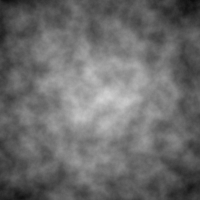
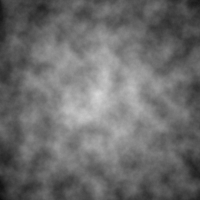
added a cursor, probably won't stay.

diff --git a/Input.py b/Input.py
@@ -24,6 +24,7 @@ class Input():
 		self.mouse = pygame.mouse.get_pressed()
 		self.mousePos = pygame.mouse.get_pos()
 		self.mouseMotion = pygame.mouse.get_rel() 
+		self.mouseWorldPos = ( math.floor((self.mousePos[0] - self.camera.positionX)/tileWidth) , math.floor((self.mousePos[1] - self.camera.positionY)/tileHeight) )
 
 		if self.keys[pygame.K_g]:
 			self.world.spawnGuy()
@@ -34,8 +35,7 @@ class Input():
 
 			elif event.type == pygame.MOUSEBUTTONDOWN:
 				if event.button == 1:
-					tgtPos = ( math.floor((self.mousePos[0] - self.camera.positionX)/tileWidth) , math.floor((self.mousePos[1] - self.camera.positionY)/tileHeight) )
-					self.world.addCharacter(assets['guy'], tgtPos, CharacterStats(10))
+					self.world.addCharacter(assets['guy'], self.mouseWorldPos, CharacterStats(10))
 				if event.button == 2:  # 2 is Middle Click
 					self.isDragging = True
 			elif event.type == pygame.MOUSEBUTTONUP:

diff --git a/Renderer.py b/Renderer.py
@@ -5,19 +5,23 @@ import math
 from World import World
 from Camera import Camera
 from Character import Character
+from Input import Input
 
 class Renderer():
 
-	def __init__(self):
+	def __init__(self, inputs: Input):
 		self.screen = pygame.display.set_mode((windowWidth, windowHeight), pygame.RESIZABLE)
 		self.icon = pygame.image.load("assets/icon.png")
 		pygame.display.set_icon(self.icon)
+		self.inputs = inputs
 
 		convertTextures()
 	
 	def RenderFrame(self, world: World, camera: Camera):
 		self.screen.fill((0, 0, 0))
 		self.blit(world.worldMap.tilemap, camera.getPosition())
+
+		self.blit(assets["cursor"], self.toScreenSpace(world, camera, self.inputs.mouseWorldPos))
 
 		for i in world.entities:
 			tile = world.getEntitiesAtPos(i.getPosition())

diff --git a/constants.py b/constants.py
@@ -17,7 +17,8 @@ assets = {
 	"WaterTexture" : pygame.image.load("assets/water.png"),
 	"MountianTexture" : pygame.image.load("assets/mountian.png"),
 	"guy" : pygame.image.load("assets/guy.png"),
-	"evilGuy" : pygame.image.load("assets/badGuy.png")
+	"evilGuy" : pygame.image.load("assets/badGuy.png"),
+	"cursor" : pygame.image.load("assets/cursor.png")
 }
 
 # def getAssetAtScale(name, scale):

diff --git a/Main.py b/Main.py
@@ -12,10 +12,10 @@ pygame.init()
 
 running = True
 
-renderer = Renderer()
 camera = Camera()
 world = World()
 inputs = Input(world, camera)
+renderer = Renderer(inputs)
 
 clock = pygame.time.Clock()
 
